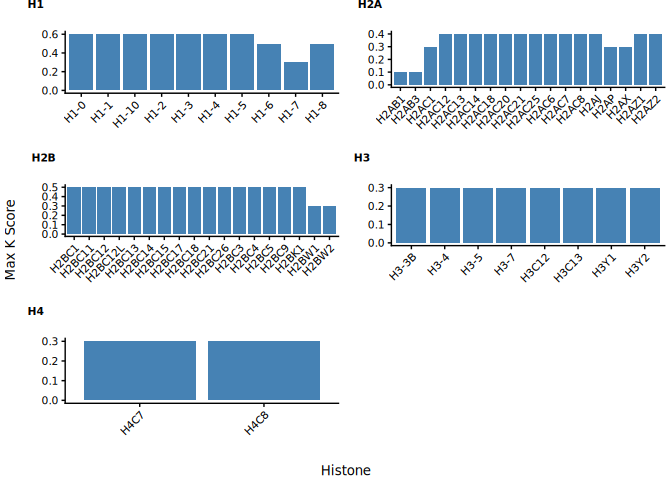
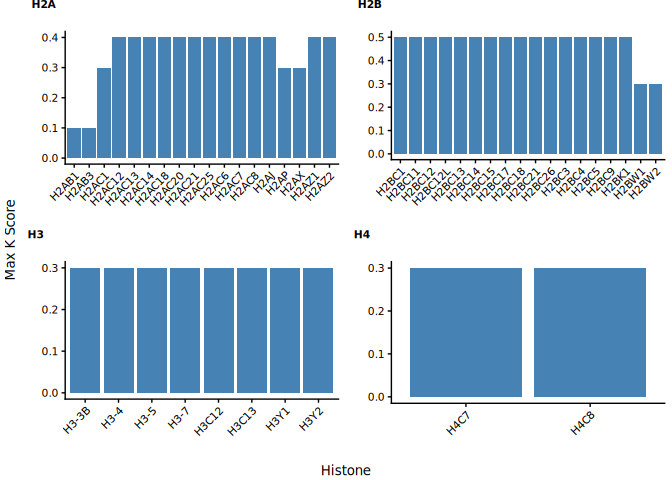
markdown_updated

diff --git a/R/p1_lysine-rich-domain-biology/p1-1_lysine-rich-domain-proteins.md b/R/p1_lysine-rich-domain-biology/p1-1_lysine-rich-domain-proteins.md
@@ -1,7 +1,7 @@
 1-1. Proteins with lysine-rich domains
 ================
 Pallavi Kesavan and Yoichiro Sugimoto
-18 November, 2025
+25 November, 2025
 
 - [Environment setup](#environment-setup)
 - [1.1 Import data](#11-import-data)
@@ -42,7 +42,7 @@ project.dir <- file.path("/fast/AG_Sugimoto/home/users/pallavi/projects/20241111
 #renv::status
 
 ## Load all R scripts from the 'functions' folder into the current session
-temp <- sapply(list.files(file.path(project.dir, "R/functions"), pattern="*.R", full.names = TRUE), source)
+P2_functions <- sapply(list.files(file.path(project.dir, "R/functions"), pattern="*.R", full.names = TRUE), source)
 ```
 
     ## 
@@ -245,13 +245,12 @@ max.k.score.dt <- merge(
 # Create dataset with max k score 
 fwrite(max.k.score.dt, file.path(results.dir, "p1_K_rich_domains", "max-k-score-per-protein.csv")) 
 
-
-## Median K score of all region in human proteome
 # Import human protein reference data from specified file path 
 ref_protein_data <- import_reference_fasta(file.path
 ("/fast/AG_Sugimoto/reference/uniprot/human", 
   "UP000005640_9606.fasta")) 
 
+# Median K score of all region in human proteome
 all_protein_K_ratio <- sapply(ref_protein_data$protein_seq, function(seq){
   if (is.na(seq) || nchar(seq) == 0) # checks for missing values 
     return(NA_real_)
@@ -321,6 +320,15 @@ ggplot(
 ![](p1-1_lysine-rich-domain-proteins_files/figure-gfm/Data_Visualization_Max_K_Score_&_Protein_Length-2.png)<!-- -->
 
 ``` r
+#Median - 24112025
+median(max.k.score.dt[, max_k_ratio])
+```
+
+    ## [1] 0.3
+
+``` r
+# 0.3
+
 # Plot - Max K ratio vs protein length
 ggplot(
   max.k.score.dt,
@@ -774,16 +782,11 @@ ggplot(
 ``` r
 library("RColorBrewer")
 
-install.packages("ggpubr")
-```
-
-    ## Installing package into '/home/pkesava/R/x86_64-pc-linux-gnu-library/4.5'
-    ## (as 'lib' is unspecified)
-
-``` r
+#install.packages("ggpubr")
 library("ggpubr")
 
 # Filter the K scores for histones 1-4
+max.k.score.dt[, histone_protein := grepl("^H[1-4]", gene_name)]
 histone_protein_dt <- max.k.score.dt[histone_protein == "TRUE"]
 
 median_k_ratio <- histone_protein_dt[, median(max_k_ratio, na.rm = TRUE)]
@@ -800,27 +803,10 @@ print(range_max_k)
     ## [1] 0.1 0.6
 
 ``` r
-H1_dt <- histone_protein_dt[grepl("^H1", gene_name)]
 H2A_dt <- histone_protein_dt[grepl("^H2A", gene_name)]
 H2B_dt <- histone_protein_dt[grepl("^H2B", gene_name)]
 H3_dt <- histone_protein_dt[grepl("^H3", gene_name)]
 H4_dt <- histone_protein_dt[grepl("^H4", gene_name)]
-
-# Plot - Histones 
-P1_H1 <- ggplot(
-  data = H1_dt,
-  mapping = aes(
-    x = gene_name,
-    y = max_k_ratio,
-  )
-) +
-  geom_col(fill = "steelblue") +
-  theme(axis.text.x = element_text(angle = 45, hjust = 1)) +
-  theme(axis.text.x = element_text(size = 8),
-        axis.text.y = element_text(size = 8)) +
-  ggtitle("") + 
-  xlab("") + 
-  ylab("")
 
 
 # Plot - Histones 
@@ -887,9 +873,9 @@ P5_H4 <- ggplot(
 
 
 combined <- ggarrange(
-  P1_H1, P2_H2A, P3_H2B, P4_H3, P5_H4,
-  ncol = 2, nrow = 3,
-  labels = c("H1","H2A", "H2B", "H3", "H4"),
+  P2_H2A, P3_H2B, P4_H3, P5_H4,
+  ncol = 2, nrow = 2,
+  labels = c("H2A", "H2B", "H3", "H4"),
   label.x = 0.0,          
   label.y = 1,  
   hjust = -0.5, 
@@ -908,18 +894,76 @@ annotate_figure(
 ![](p1-1_lysine-rich-domain-proteins_files/figure-gfm/histone_versus_max_K_score-1.png)<!-- -->
 
 ``` r
+#H3
 ggplot(
-  protein.feature.dt[grepl("Q16695", Accession)],
+  protein.feature.dt[grepl("P62805", Accession)],
   aes(
-    x =position,
+    x = position,
     y = K_ratio_score
   )
 ) +
-  geom_area() +
-  geom_ribbon(aes(xmin = 0 , xmax = 79), fill = "red", alpha = 0.1)
+  geom_area(color = "black", fill = "steelblue", alpha = 0.6) 
 ```
 
 ![](p1-1_lysine-rich-domain-proteins_files/figure-gfm/k_score_per_position-1.png)<!-- -->
+
+``` r
+# H2AX 
+ggplot(
+  protein.feature.dt[grepl("P16104", Accession)],
+  aes(
+    x = position,
+    y = K_ratio_score
+  )
+) +
+  geom_area(color = "black", fill = "steelblue", alpha = 0.6)
+```
+
+![](p1-1_lysine-rich-domain-proteins_files/figure-gfm/k_score_per_position-2.png)<!-- -->
+
+``` r
+#H2B
+ggplot(
+  protein.feature.dt[grepl("P33778", Accession)],
+  aes(
+    x = position,
+    y = K_ratio_score
+  )
+) +
+  geom_area(color = "black", fill = "steelblue", alpha = 0.6) 
+```
+
+![](p1-1_lysine-rich-domain-proteins_files/figure-gfm/k_score_per_position-3.png)<!-- -->
+
+``` r
+#H4
+
+ggplot(
+  protein.feature.dt[grepl("P62805", Accession)],
+  aes(
+    x = position,
+    y = K_ratio_score
+  )
+) +
+  geom_area(color = "black", fill = "steelblue", alpha = 0.6) 
+```
+
+![](p1-1_lysine-rich-domain-proteins_files/figure-gfm/k_score_per_position-4.png)<!-- -->
+
+``` r
+#H2A
+
+ggplot(
+  protein.feature.dt[grepl("Q6FI13", Accession)],
+  aes(
+    x = position,
+    y = K_ratio_score
+  )
+) +
+  geom_area(color = "black", fill = "steelblue", alpha = 0.6) 
+```
+
+![](p1-1_lysine-rich-domain-proteins_files/figure-gfm/k_score_per_position-5.png)<!-- -->
 
 # Session information
 
@@ -937,7 +981,7 @@ sessioninfo::session_info()
     ##  collate  C.UTF-8
     ##  ctype    C.UTF-8
     ##  tz       Europe/Berlin
-    ##  date     2025-11-18
+    ##  date     2025-11-25
     ##  pandoc   3.4 @ /usr/lib/rstudio-server/bin/quarto/bin/tools/x86_64/ (via rmarkdown)
     ##  quarto   1.6.42 @ /usr/lib/rstudio-server/bin/quarto/bin/quarto
     ## 
